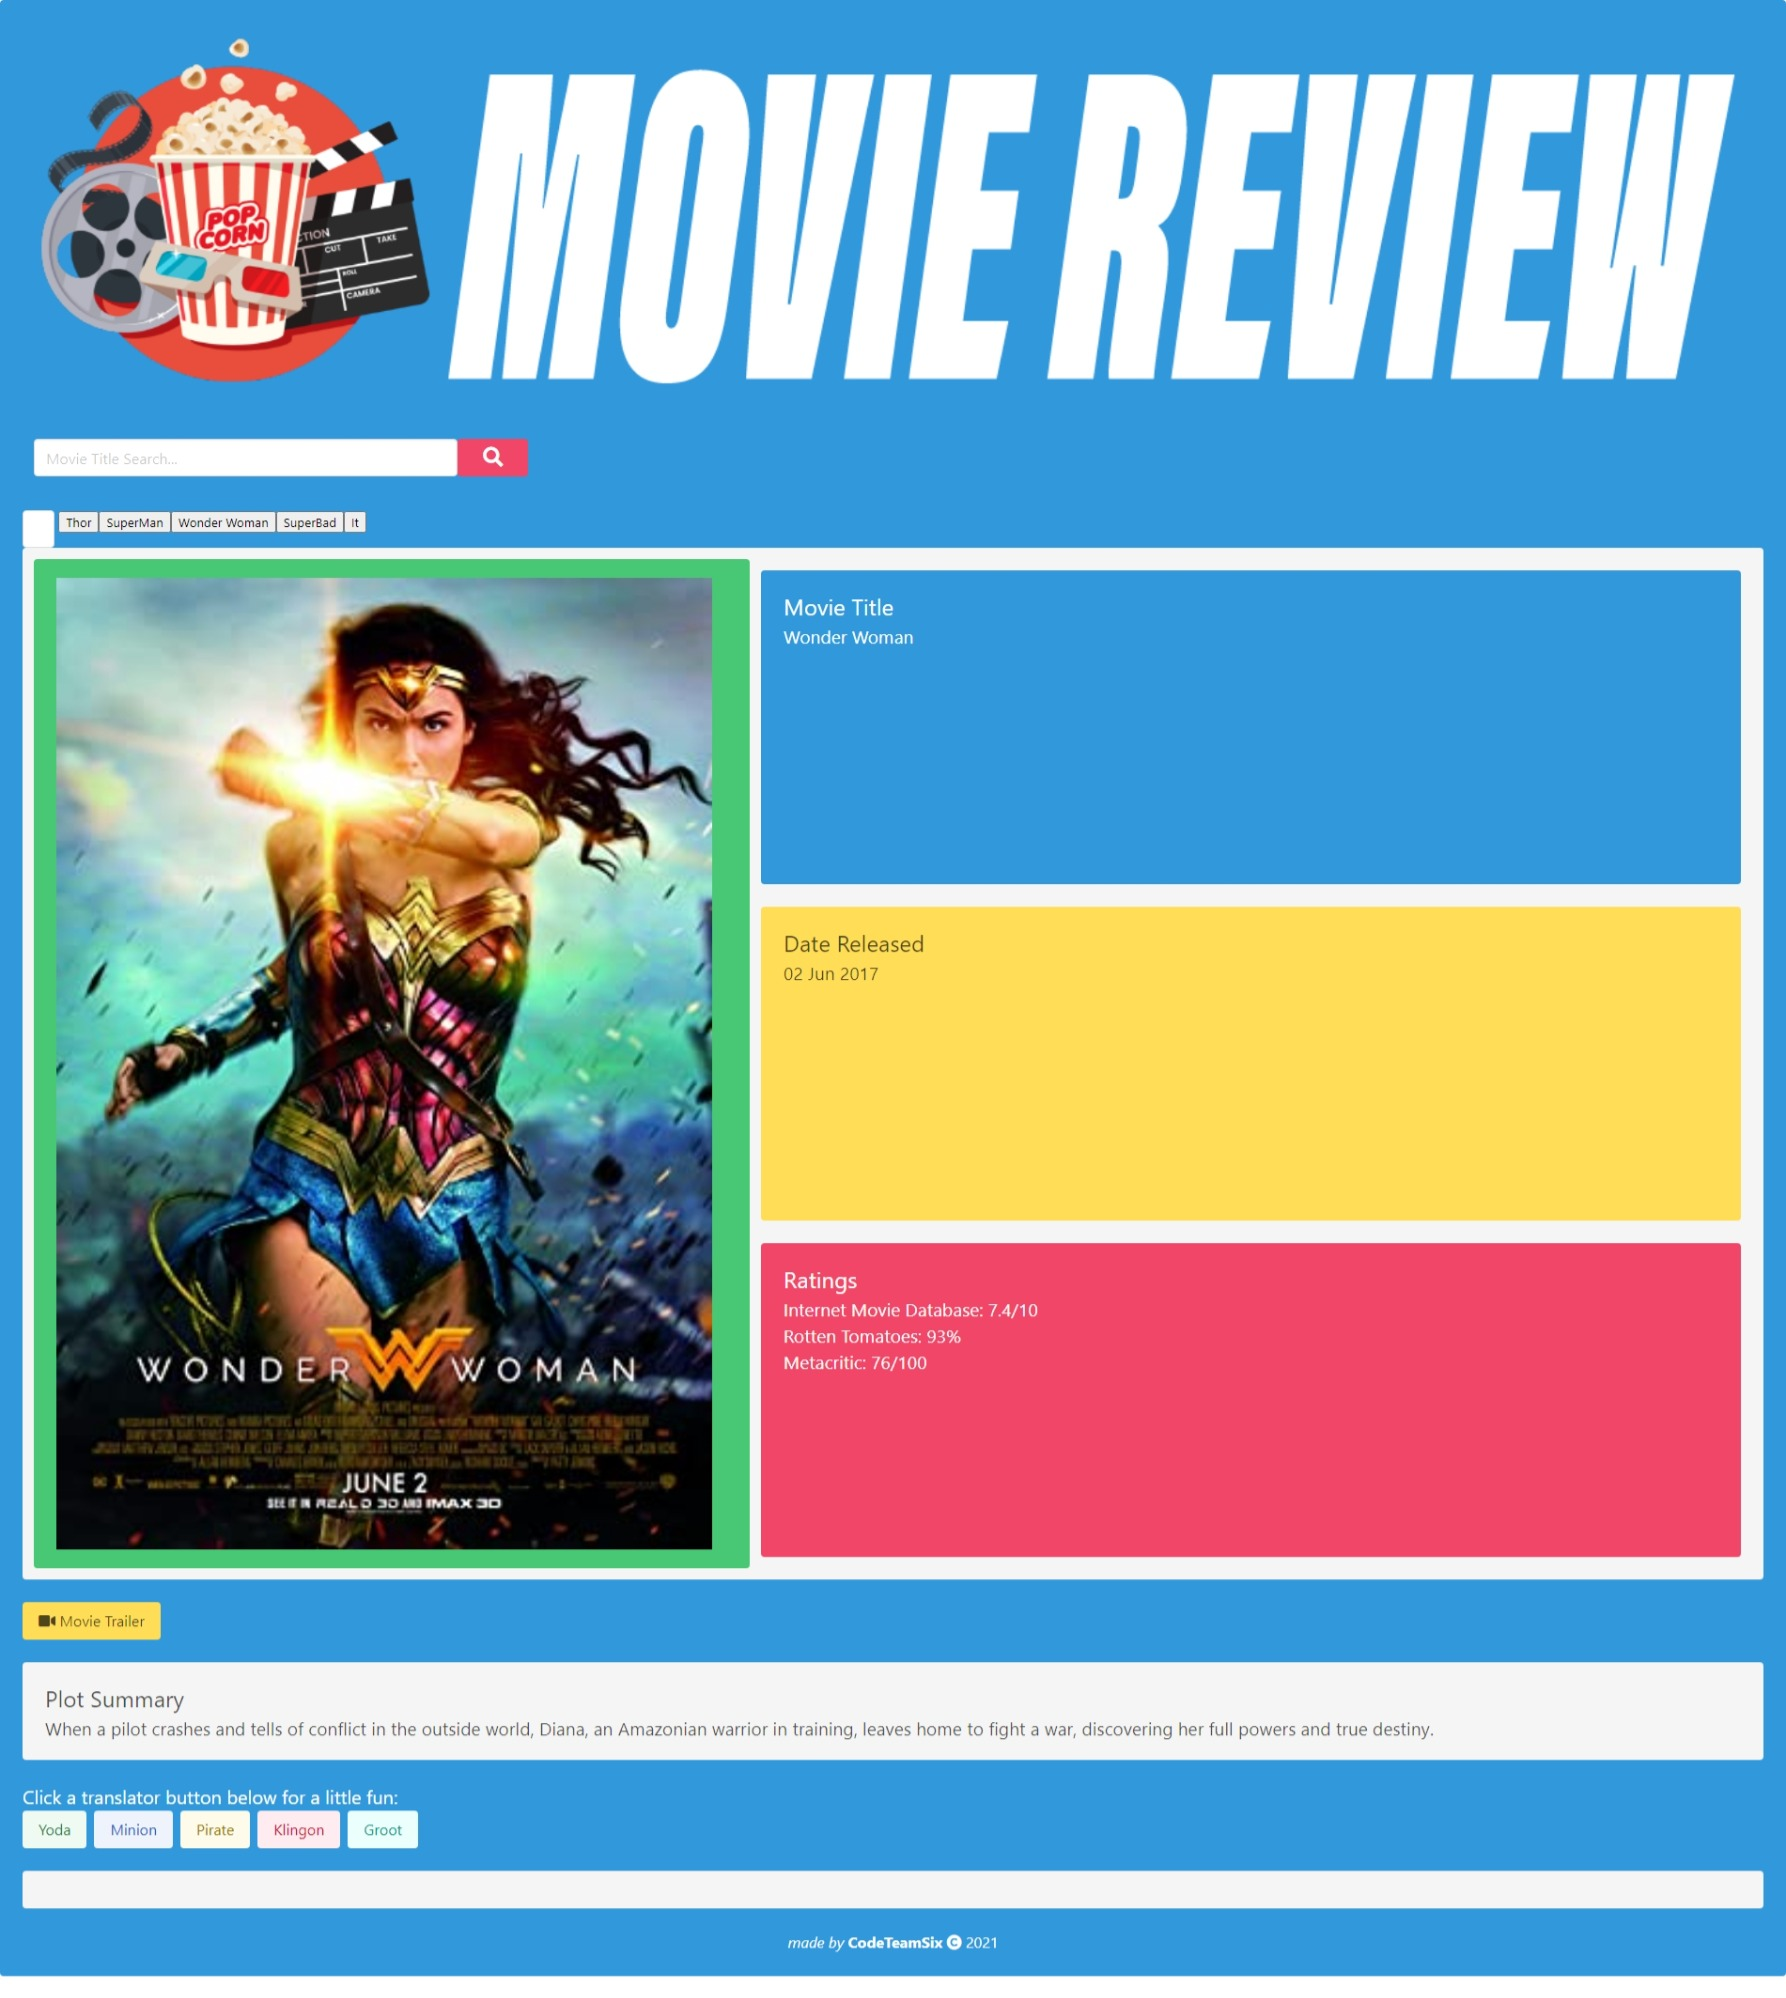
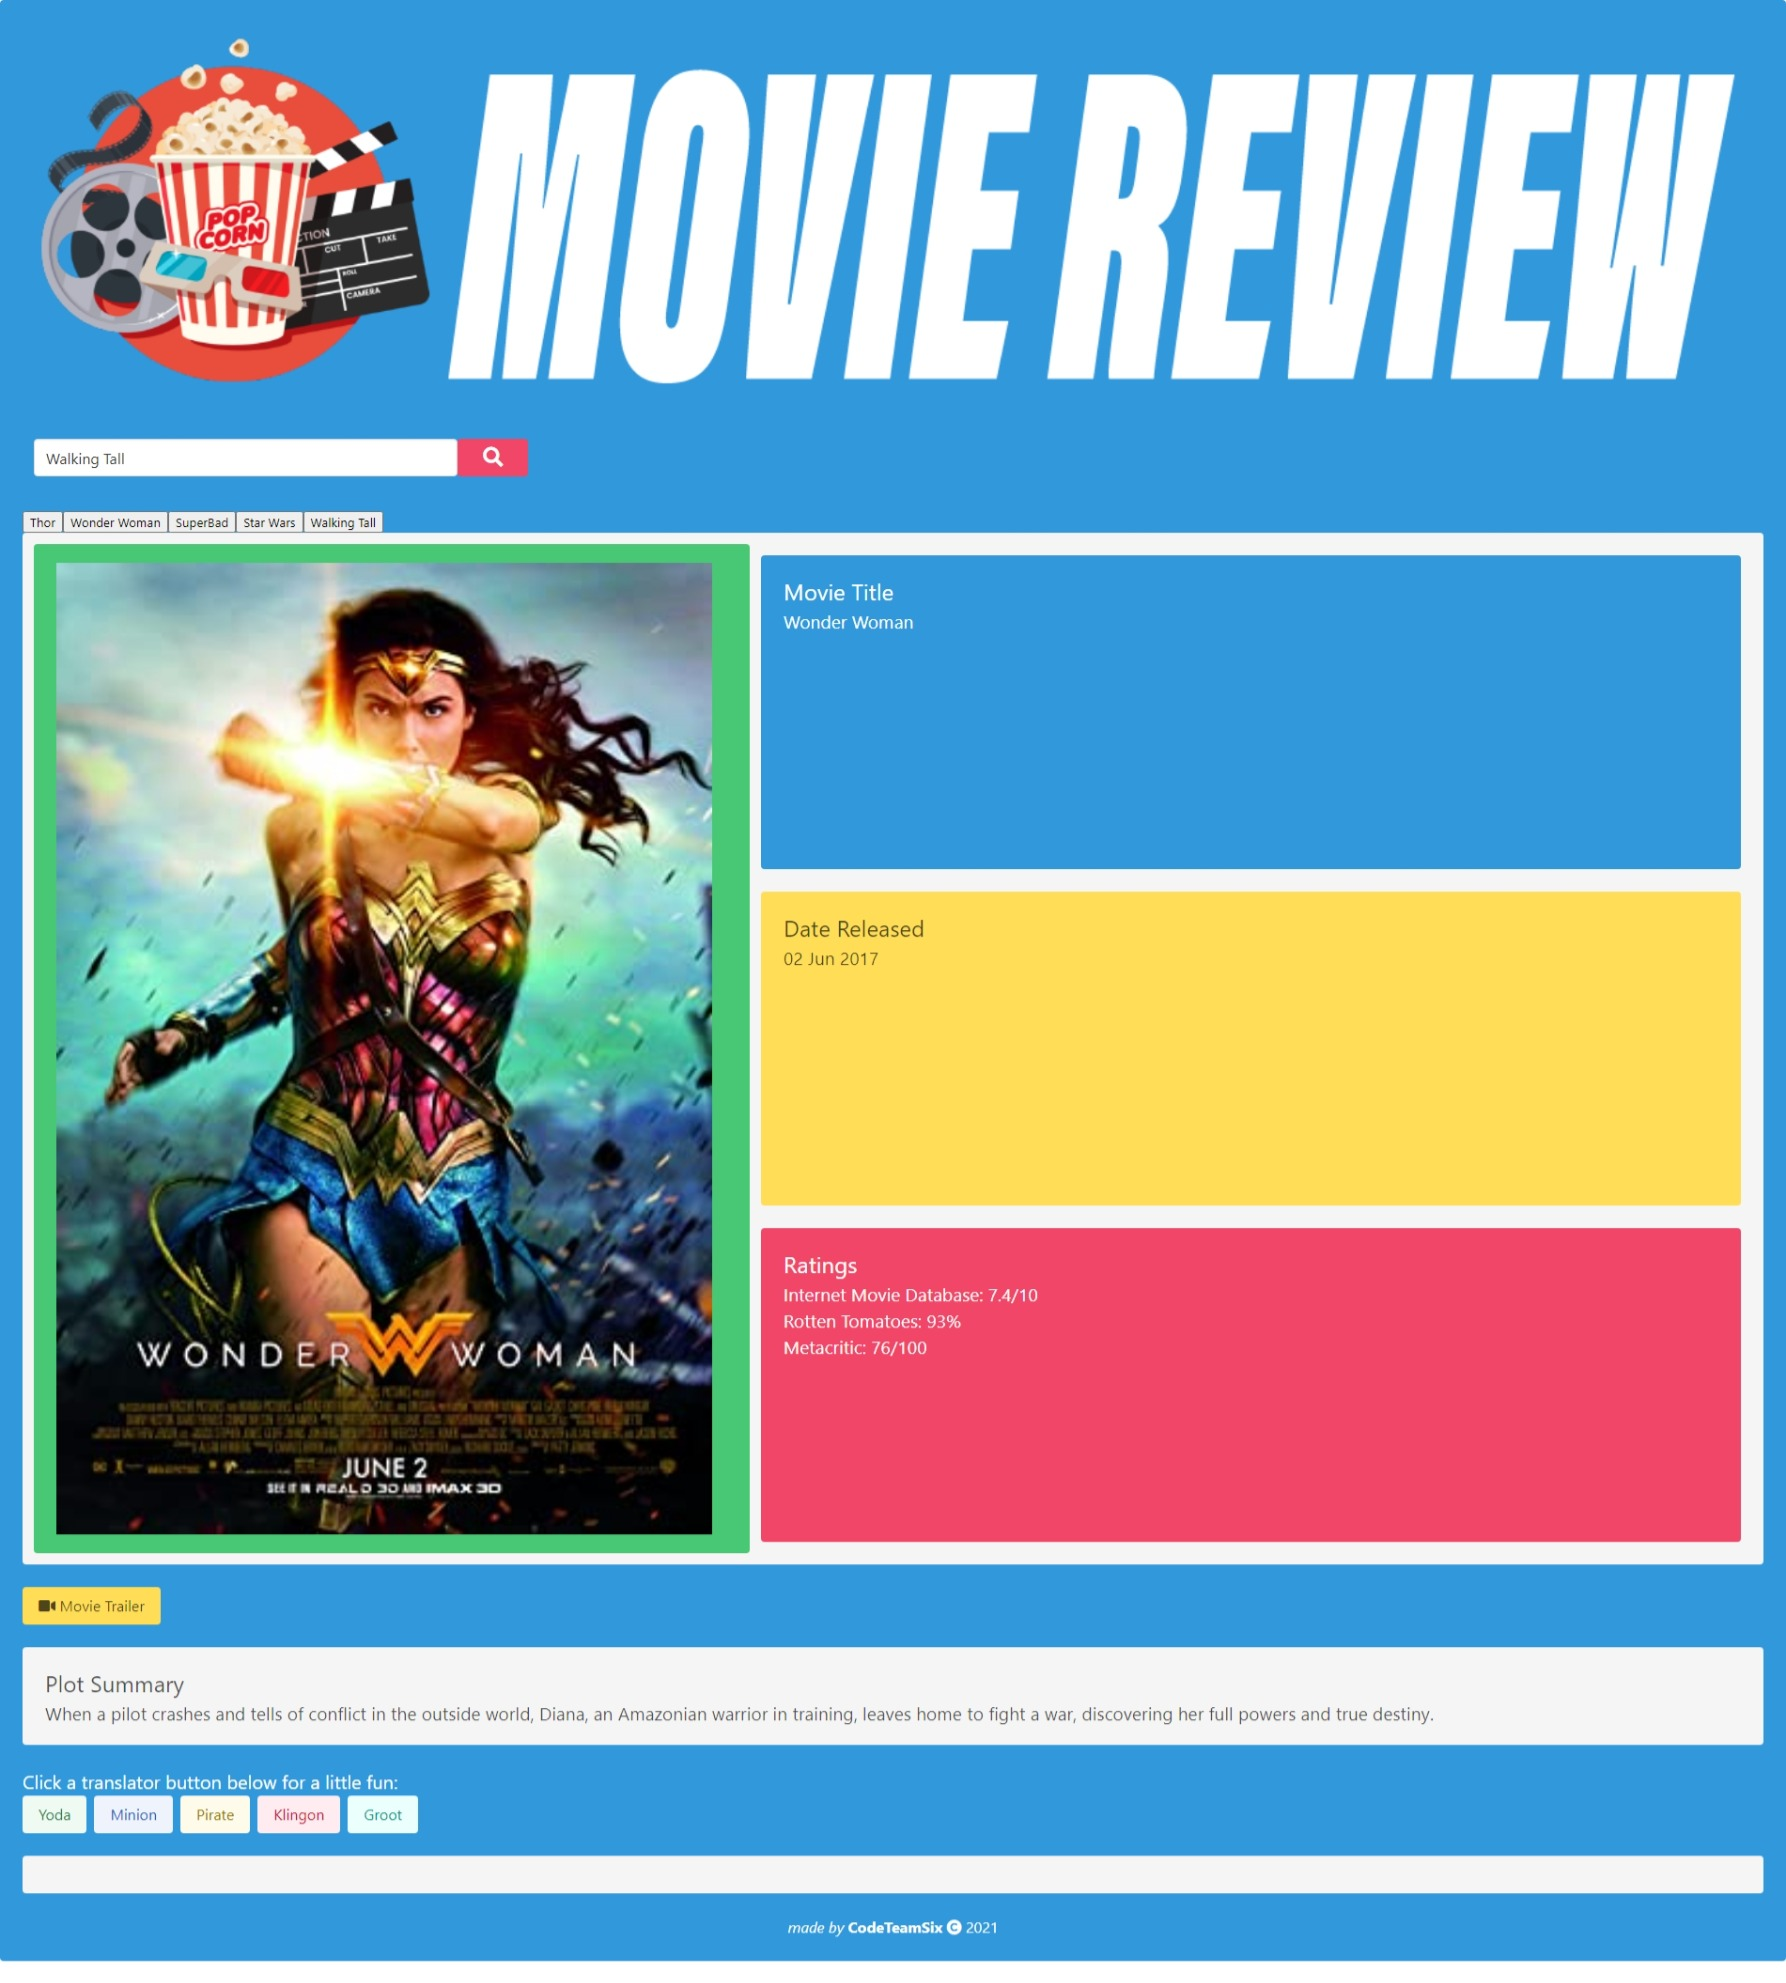
Cleaned up button on previous history with css display none.  Redo on screen capture.

diff --git a/assets/js/script.js b/assets/js/script.js
@@ -21,7 +21,6 @@ var storageMovie = [];
 var previousSearchesBox = $("#previousSearches");
 var userSelection;
 
-
 var requestOptions = {
     method: "Get",
     redirect: "Follow"
@@ -30,7 +29,7 @@ var requestOptions = {
 //Function to start the movie search
 function searching(event, userSelection) {
     event.preventDefault();
-    resetPage(); 
+    resetPage();
     console.log(event);
     var omdbUrlFront = "https://www.omdbapi.com/?apikey=" + movieApiKey + "&t=";
     // userSelection = searchInputEl.value.trim();
@@ -39,7 +38,7 @@ function searching(event, userSelection) {
     console.log(userSelection);
     var userInputTrimmed = $('<button class="previousSearchItemBtn" type="button">');
     userInputTrimmed.click(function(event) {
-         event.preventDefault();
+        event.preventDefault();
          var value = $(this).text();
          console.log(value);
          searching(event, value);
@@ -109,7 +108,13 @@ function pullStorageMovie() {
                 event.preventDefault();
                 var value = $(this).text();
                 console.log(value);
-                searching(event, value);
+                if (value === null) {
+                    searching(event);
+                } else {
+                    console.log(value);
+                    searching(event, value);
+                }
+                
             });
             userInputTrimmed.text(storageMovie[k]);
             userInputTrimmed.on("click", searching);

diff --git a/index.html b/index.html
@@ -38,7 +38,7 @@
         </div>
         <!-- *** Search History Button*** -->
             <div id="searchHistory" class="searching">
-                <div class="is-flex-direction-column is-align-content-center" id="previousSearches">
+                <div class="is-flex-direction-row is-align-content-center" id="previousSearches">
                 <button id="preBtns" class="previousSearchItemsBtn button" type="button" ></button>
                 </div>
             </div> 

diff --git a/assets/css/style.css b/assets/css/style.css
@@ -22,3 +22,7 @@ p.results {
     max-width: 100%;
     transform: translate(-50%, -50%);
 }
+
+#preBtns {
+    display: none;
+}
